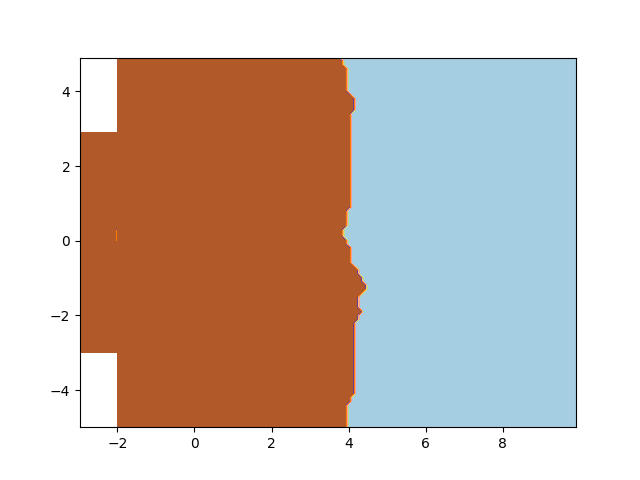
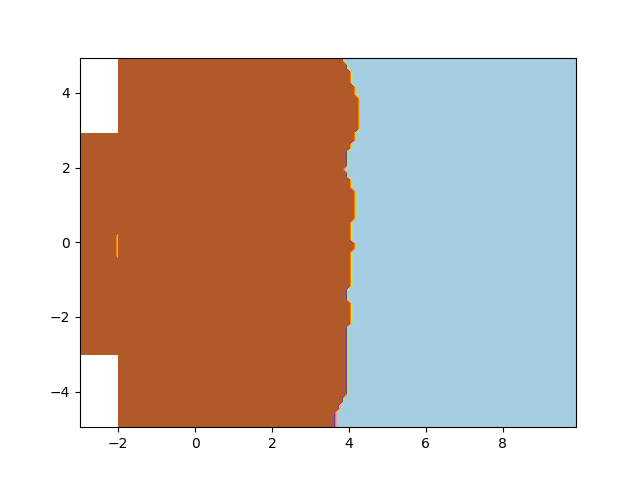
update model package

diff --git a/knn/k_nearest_neighbour.py b/knn/k_nearest_neighbour.py
@@ -1,13 +1,10 @@
 #! /usr/bin/env python3
 
 import numpy as np
-import matplotlib
-matplotlib.use('Agg')
-from matplotlib import pyplot as plt
 from collections import defaultdict
-from tqdm import tqdm
 from data.data import Data
 from model.base_model import BaseModel
+from model.base_runner import BaseRunner
 
 
 class KNN(BaseModel):
@@ -23,7 +20,9 @@ class KNN(BaseModel):
     def vote(d, k):
         y = defaultdict(lambda : 0)
         max_v = 0
-        for i in range(min(k, len(d))):
+        k = min(k, len(d))
+        k = k-1 if k%2==0 else k
+        for i in range(k):
             _, label = d[i]
             y[label] += 1
             max_v = max(max_v, y[label])
@@ -54,51 +53,31 @@ def cosine_fun():
     return lambda x1, x2: np.dot(x1, x2) / (np.linalg.norm(x1) * np.linalg.norm(x2))
 
 
-def test_accuracy(knn, X, Y):
-    acc = 0
-    for x, y in zip(X, Y):
-        acc += 1 if y == knn.predict(np.array(x)) else 0
-    return acc / len(X)
+class Runner(BaseRunner):
+    def experiment(self, data_func, figname):
+        k = 5
+        p = 2
 
+        print(f"Generate KNN boundary in {figname}")
+        X, Y = data_func(n1=200, n2=200)
 
-def visualize(knn, x_range, y_range, figname):
-    x = np.arange(*x_range, 0.1)
-    y = np.arange(*y_range, 0.1)
-    xx, yy = np.meshgrid(x, y)
-    fx, fy = xx.flatten(), yy.flatten()
-    Xhat = np.column_stack((fx, fy))
-    Yhat = []
-    for x in tqdm(Xhat):
-        Yhat.append(knn.predict(x))
-    zz = np.array(Yhat).reshape(xx.shape)
+        knn = KNN(k, distance_func(p))
+        knn.train(X, Y)
 
-    plt.contourf(xx, yy, zz, cmap='Paired')
-    plt.savefig(figname)
-
-
-def experiment(data_func, figname):
-    k = 5
-    p = 2
-
-    print(f"Generate KNN boundary in {figname}")
-    X, Y = data_func(n1=200, n2=200)
-
-    knn = KNN(k, distance_func(p))
-    knn.train(X, Y)
-
-    x, y = [], []
-    for a, b in X:
-        x.append(a); y.append(b)
-    min_x, max_x = np.min(x), np.max(x)
-    min_y, max_y = np.min(y), np.max(y)
-    visualize(knn, (min_x, max_x), (min_y, max_y), figname)
+        x, y = [], []
+        for a, b in X:
+            x.append(a); y.append(b)
+        min_x, max_x = np.min(x), np.max(x)
+        min_y, max_y = np.min(y), np.max(y)
+        self.visualize(knn, (min_x, max_x), (min_y, max_y), figname)
 
 
 if __name__ == '__main__':
     data = Data()
-    experiment(data.circle, "knn/circle.png")
-    experiment(data.ls_balanced, "knn/ls_balanced.png")
-    experiment(data.ls_unbalanced, "knn/ls_unbalanced.png")
-
+    runner = Runner()
+    runner.experiment(data.circle, "knn/circle.png")
+    runner.experiment(data.ls_balanced, "knn/ls_balanced.png")
+    runner.experiment(data.ls_unbalanced, "knn/ls_unbalanced.png")
+    runner.experiment(data.xor, "knn/xor.png")
 
 

diff --git a/perceptron/perceptron.py b/perceptron/perceptron.py
@@ -1,0 +1,34 @@
+#! /usr/bin/env python3
+
+import numpy as np
+import matplotlib
+matplotlib.use('Agg')
+from matplotlib import pyplot as plt
+from data.data import Data
+from model.base_model import BaseModel
+
+
+class Perceptron(BaseModel):
+    def __init__(self):
+        self.w = None
+
+    def train(self, X, Y, max_runs=10000):
+        batch, dim = X.shape
+        X = np.concatenate((np.ones((batch, 1)), X), axis=1)  # add column of all ones in X: add bias
+        w = np.zeros(dim+1)
+        m = batch; runs = 0
+        while m > 0 and runs < max_runs:
+            m = 0
+            for x, y in zip(X, Y):
+                err = y * np.dot(x, w)
+                if err <= 0:
+                    w += err
+                    m += 1
+            runs += 1
+        self.w = w
+
+    def predict(self, x):
+        return 1 if np.dot(self.w, x) > 0 else -1
+
+
+

diff --git a/model/base_runner.py b/model/base_runner.py
@@ -1,0 +1,28 @@
+#! /usr/bin/env python3
+
+import numpy as np
+import matplotlib
+matplotlib.use('Agg')
+from matplotlib import pyplot as plt
+from tqdm import tqdm
+
+
+class BaseRunner:
+    def experiment(self, data_fun, figname):
+        raise NotImplementedError
+
+    @staticmethod
+    def visualize(model, x_range, y_range, figname):
+        x = np.arange(*x_range, 0.1)
+        y = np.arange(*y_range, 0.1)
+        xx, yy = np.meshgrid(x, y)
+        fx, fy = xx.flatten(), yy.flatten()
+        X = np.column_stack((fx, fy))
+        Yhat = []
+        for x in tqdm(X):
+            Yhat.append(model.predict(x))
+        zz = np.array(Yhat).reshape(xx.shape)
+
+        plt.contourf(xx, yy, zz, cmap='Paired')
+        plt.savefig(figname)
+

diff --git a/data/data.py b/data/data.py
@@ -32,7 +32,7 @@ class Data:
             D.append(((x, y), l2))
         return self.to_label(D)
 
-    def xor(self):
+    def xor(self, n1=None, n2=None):
         l1, l2 = 0, 1
         X1 = [((0, 0), l1), ((1, 1), l1)]
         X2 = [((0, 1), l2), ((1, 0), l2)]
